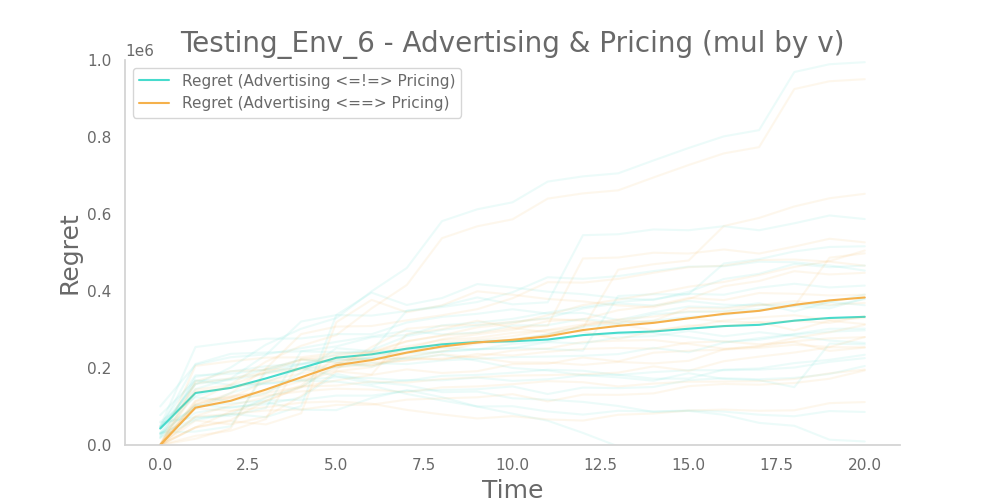
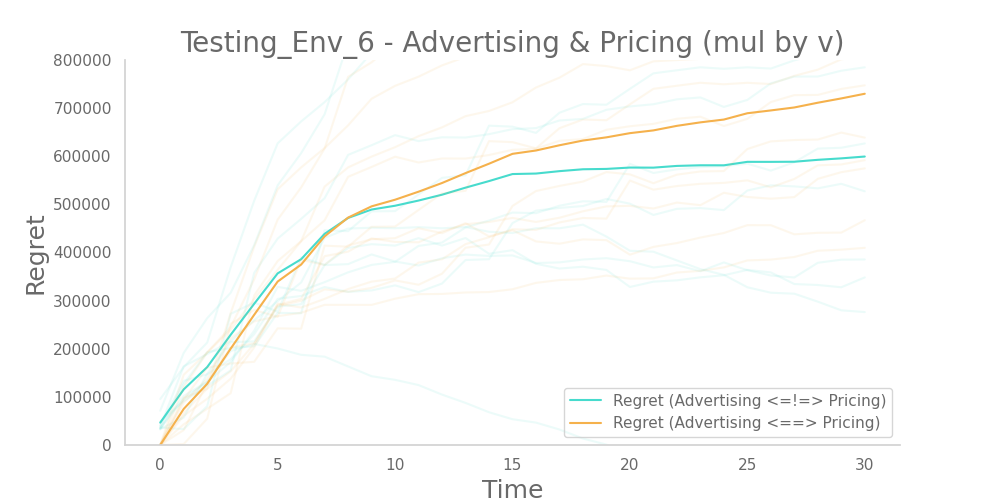
test + minor bug fixed + backup

diff --git a/project/part_6/Testing_Env_6.py b/project/part_6/Testing_Env_6.py
@@ -12,7 +12,7 @@ from project.dia_pckg.plot_style.cb91visuals import *
 from project.part_4.MultiClassHandler import MultiClassHandler
 from project.part_6.BudgetAllocator import BudgetAllocator
 
-#np.random.seed(141)
+# np.random.seed(141)
 
 enable_pricing = True
 plot_advertising = False
@@ -51,8 +51,8 @@ def execute_experiment(args):
 
     print(str(index) + ' has ended')
 
-    return {'agnostic_regret': budget_allocator.msh.regret, 'regret': budget_allocator.regret, 
-                        'loss': sum(budget_allocator.regret) / budget_allocator.msh.total_revenue}
+    return {'agnostic_regret': budget_allocator.msh.regret, 'regret': budget_allocator.regret,
+            'loss': sum(budget_allocator.regret) / budget_allocator.msh.total_revenue}
 
 
 if __name__ == '__main__':
@@ -91,14 +91,14 @@ if __name__ == '__main__':
     # plt.legend()
     # plt.show()
 
-    n_experiments = 50  # the number is small to do a raw test, otherwise set it to 1000
+    n_experiments = 10  # the number is small to do a raw test, otherwise set it to 1000
     final_loss_per_experiment = []  # collect all the regrets achieved
     agnostic_regret_per_experiment = []  # collect all the regrets achieved
     regret_per_experiment = []
     args = [{'environment': copy.deepcopy(base_env), 'index': idx, 'multiclasshandler': mch}
             for idx in range(n_experiments)]  # create arguments for the experiment
 
-    with Pool(processes=10) as pool:  # multiprocessing.cpu_count()
+    with Pool(processes=1) as pool:  # multiprocessing.cpu_count()
         results = pool.map(execute_experiment, args, chunksize=1)
 
     for result in results:
@@ -106,26 +106,25 @@ if __name__ == '__main__':
         regret_per_experiment.append(result['regret'])
         final_loss_per_experiment.append(result['loss'])
 
-    
     title = ' & Pricing (mul by v)' if enable_pricing else ''
     title = f'Testing_Env_6 - Advertising{title}'
     plt.title(title, fontsize=20)
 
-    #for agnostic_regret in agnostic_regret_per_experiment:
-        #plt.plot(np.cumsum(agnostic_regret), alpha=0.1, c='C2')
+    for agnostic_regret in agnostic_regret_per_experiment:
+        plt.plot(np.cumsum(agnostic_regret), alpha=0.1, c='C2')
     plt.plot(np.cumsum(np.mean(agnostic_regret_per_experiment, axis=0)),
              c='C2', label='Regret (Advertising <=!=> Pricing)')
 
-    #for regret in regret_per_experiment:
-        #plt.plot(np.cumsum(regret), alpha=0.1, c='C3')
+    for regret in regret_per_experiment:
+        plt.plot(np.cumsum(regret), alpha=0.1, c='C3')
     plt.plot(np.cumsum(np.mean(regret_per_experiment, axis=0)),
              c='C3', label='Regret (Advertising <==> Pricing)')
 
     plt.xlabel('Time')
     plt.ylabel('Regret')
-    #plt.ylim([0, 1e6])
+    plt.ylim([0, 800e3])
     plt.legend()
 
     print('\n\nFINAL LOSS:', np.mean(final_loss_per_experiment))
-    #plt.savefig('other_files/' + title + '.png')
+    plt.savefig('other_files/' + title + '.png')
     plt.show()

diff --git a/project/part_6/SubCampaignHandler.py b/project/part_6/SubCampaignHandler.py
@@ -1,6 +1,8 @@
+import numpy as np
+
 from project.part_6.Advertising import Advertising
 from project.part_6.Pricing import Pricing
-import numpy as np
+
 
 class SubCampaignHandler:
     """
@@ -34,7 +36,7 @@ class SubCampaignHandler:
         self.window_size = 5
         self.window_revenue = np.array([])
         self.window_clicks = np.array([])
-        
+
         self.total_revenue = 0
         self.total_clicks = 0
 
@@ -63,8 +65,8 @@ class SubCampaignHandler:
               'optimal revenue: ', round(self.pricing.optimal_revenue * self.advertising.optimal_clicks),
               'collected revenue: ', int(self.daily_revenue))
 
-        #self.total_revenue += self.daily_revenue
-        #self.total_clicks += self.daily_clicks
+        # self.total_revenue += self.daily_revenue
+        # self.total_clicks += self.daily_clicks
         self.update_windows(self.daily_revenue, self.daily_clicks)
 
         return daily_regret, self.daily_revenue
@@ -84,8 +86,7 @@ class SubCampaignHandler:
     def get_updated_parameters(self):
         return self.advertising.learner.pull_arm_sequence()
 
-
-    def update_windows (self, daily_revenue, daily_clicks):
+    def update_windows(self, daily_revenue, daily_clicks):
         self.window_revenue = np.append(self.window_revenue, daily_revenue)
         if (self.window_revenue.shape[0] > self.window_size):
             self.window_revenue = np.delete(self.window_revenue, 0)
@@ -96,4 +97,3 @@ class SubCampaignHandler:
 
         self.total_revenue = np.sum(self.window_revenue)
         self.total_clicks = np.sum(self.window_clicks)
-        

diff --git a/project/dia_pckg/User.py b/project/dia_pckg/User.py
@@ -4,7 +4,7 @@ from project.dia_pckg.Config import features_space, classes_config
 
 
 # for each user we can observe the value of two binary features
-class User():
+class User:
 
     def __init__(self, features=None, class_name=None, random=False):
         """
@@ -13,7 +13,7 @@ class User():
         :param random: to create a user with random params
         """
         self.class_name = class_name
-        if (features is None and class_name is not None):
+        if features is None and class_name is not None:
             self.features = classes_config[self.class_name]
 
         if random:

diff --git a/project/dia_pckg/Config.py b/project/dia_pckg/Config.py
@@ -4,7 +4,7 @@
 
 # campaign
 initial_date = '20200101'
-n_days = 200
+n_days = 30
 
 # Seller wallet and ambitions
 seller_max_budget = 20000  # $
@@ -36,8 +36,10 @@ n_abrupts_phases = 3
 # directory to store the curves
 demand_path = 'demand_curves'
 
-len_window = 10
+len_window = 5
 phase_len = n_days // n_abrupts_phases
+# Since n_abrupts_phases is odd and n_days could be even we add 1 to obtain equal phases
+phase_len = phase_len + 1 if n_days % 2 == 0 else phase_len
 
 print_span = 60  # How often we want to print the graphs
 

diff --git a/project/part_3/Testing_part3.py b/project/part_3/Testing_part3.py
@@ -69,7 +69,7 @@ if __name__ == '__main__':
         for clicks, opts in zip(clicks_per_experiment, opt_clicks_per_experiment):
             plt.plot(np.cumsum(opts - clicks), alpha=0.2, c=f'C{i + 1}')
 
-        plt.plot(np.cumsum(np.mean(opt_clicks_per_experiment) - np.mean(clicks_per_experiment, axis=0)),
+        plt.plot(np.cumsum(np.mean(opt_clicks_per_experiment, axis=0) - np.mean(clicks_per_experiment, axis=0)),
                  c=f'C{i + 1}', label=f'{learner_name} - Mean Regret')
 
     plt.ylabel('Regret')

diff --git a/project/part_2/Testing_part2.py b/project/part_2/Testing_part2.py
@@ -44,7 +44,7 @@ if __name__ == '__main__':
     for clicks, opts in zip(clicks_per_experiment, opt_clicks_per_experiment):
         plt.plot(np.cumsum(opts - clicks), alpha=0.2, c='C2')
 
-    plt.plot(np.cumsum(np.mean(opt_clicks_per_experiment) - np.mean(clicks_per_experiment, axis=0)),
+    plt.plot(np.cumsum(np.mean(opt_clicks_per_experiment, axis=0) - np.mean(clicks_per_experiment, axis=0)),
              c='C2', label='Mean Regret')
     plt.ylabel('Regret')
     plt.xlabel('Time')

diff --git a/project/part_6/BudgetAllocator.py b/project/part_6/BudgetAllocator.py
@@ -52,7 +52,6 @@ class BudgetAllocator:
         for subcampaign_handler in self.msh.subcampaigns_handlers:
             learner_clicks = subcampaign_handler.get_updated_parameters()
 
-            # TODO: Decidere come trattare le V: solo ultimo giorno? O tutto lo storico?
             n_clicks = subcampaign_handler.total_clicks
             v = subcampaign_handler.total_revenue / n_clicks if n_clicks != 0 else 0
 

diff --git a/project/part_6/Advertising.py b/project/part_6/Advertising.py
@@ -1,7 +1,5 @@
 from project.part_2.GPTS_Learner import GPTS_Learner
 from project.part_2.Utils import compute_clairvoyant, get_idx_arm_from_allocation
-from project.part_3.DLChangeDetect import DLChangeDetect
-from project.part_3.DynamicLearner import DynamicLearner
 
 
 class Advertising:
